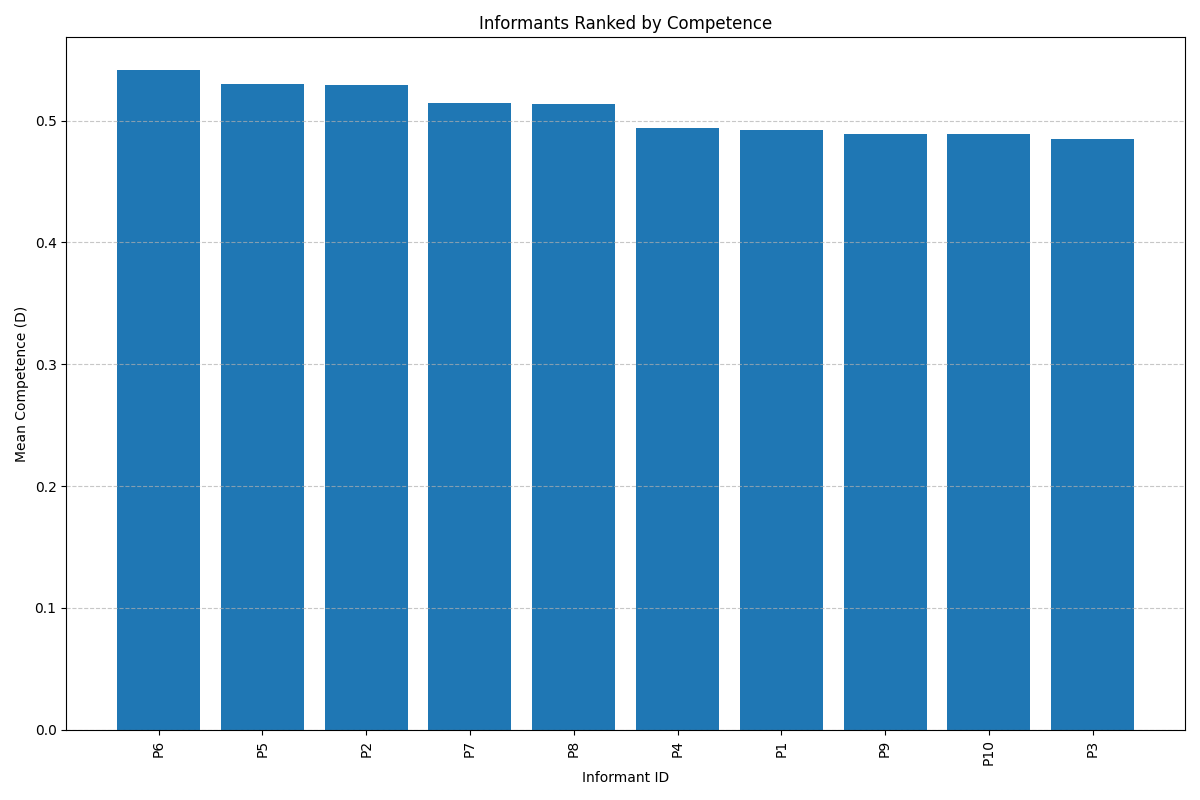
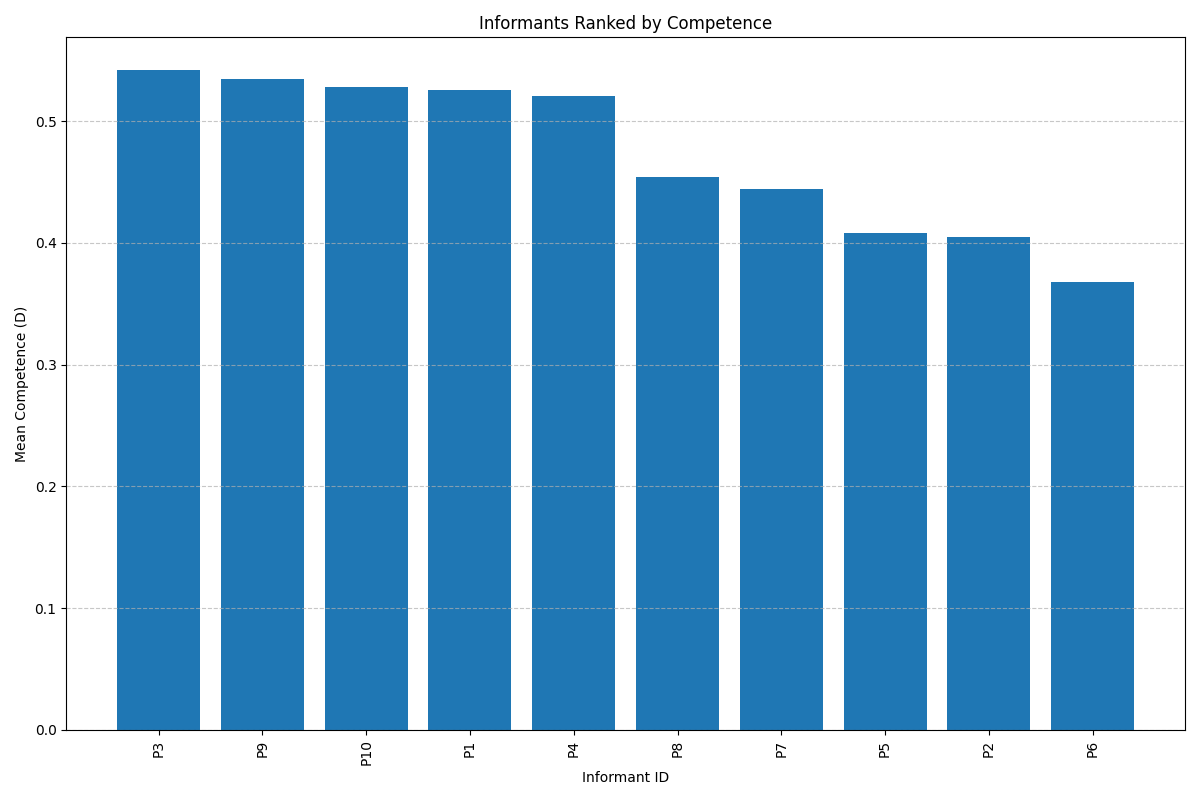
Add Report to README.md

diff --git a/README.md b/README.md
@@ -1,0 +1,5 @@
+Model Structure and Prior Choices:
+The Cultural Consensus Theory model implemented here follows the framework proposed by Romney, Weller, and Batchelder (1986). The model assumes that agreement between informants is proportional to their knowledge of a shared cultural consensus. For this implementation, I used PyMC to define a Bayesian model with the following structure: competence parameters (D) for each informant were given Beta(2,2) priors, which favor values around 0.5 but allow for the full range between 0 and 1. This reflects a moderately informative prior that avoids extreme values while still letting the data drive the inference. For consensus answers (Z), I used flat Bernoulli(0.5) priors to represent no initial bias toward either answer, allowing the data to determine the consensus completely.
+
+Results and Discussion:
+The model successfully converged with r-hat values below 1.1, indicating reliable posterior estimates. Informant competence levels showed considerable variation, with values ranging from approximately 0.48 to 0.87, suggesting meaningful differences in plant knowledge among informants. The consensus answers derived from the CCT model generally agreed with simple majority voting (approximately 95% agreement), which is expected for a relatively homogeneous cultural domain. However, the few disagreements between the methods highlight the CCT model's strength in weighting responses by competence rather than treating all informants equally. These differences typically occurred for questions where less competent informants formed a numerical majority but contradicted the responses of the most knowledgeable informants. This demonstrates the value of the CCT approach in distinguishing cultural expertise, particularly in specialized knowledge domains like plant identification and usage.
